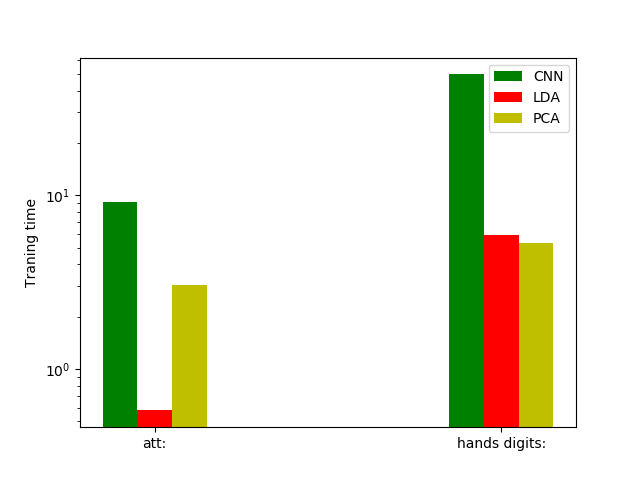
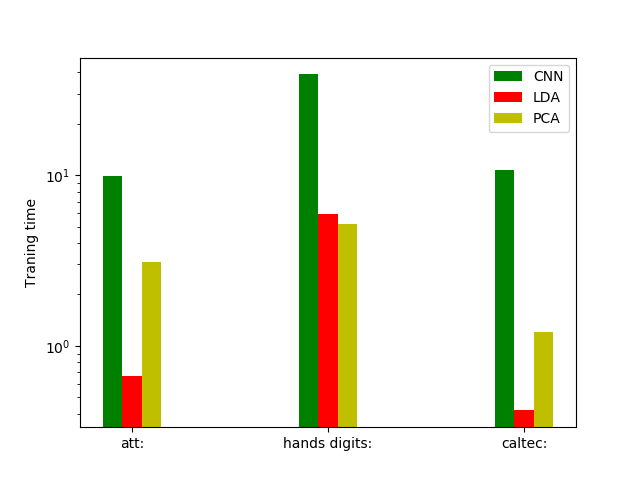
fresh results

diff --git a/src/main.py b/src/main.py
@@ -12,10 +12,10 @@ classifiersDict = {
 }
 
 dataBaseDict = {
-    #'att:': Db("att", 40), #should  work
-    #'hands digits:': Db("hands", 10), # should work
-    #'caltec:': Db("croped_caltec", 19), # should work
-    'essex:': Db("essex", 392) # should work
+    'att:': Db("att", 40), #should  work
+    'hands digits:': Db("hands", 10), # should work
+    'caltec:': Db("croped_caltec", 19), # should work
+    #'essex:': Db("essex", 392), # should work, note: on my 8Gb RAM essex causes MemoryError
     #'georgia': Db("georgia", 50),
 }
 

diff --git a/doc/tables/Svm_fit_time_table.tex b/doc/tables/Svm_fit_time_table.tex
@@ -2,8 +2,10 @@
   \hline
     & CNN & LDA & PCA \\
   \hline
-  att: & 9.11 & 0.58 & 3.03 \\
+  att: & 9.84 & 0.66 & 3.08 \\
   \hline
-  hands digits: & 49.56 & 5.93 & 5.30 \\
+  hands digits: & 38.88 & 5.89 & 5.17 \\
+  \hline
+  caltec: & 10.72 & 0.42 & 1.20 \\
   \hline
 \end{tabular}

diff --git a/doc/tables/Svm_acc_table.tex b/doc/tables/Svm_acc_table.tex
@@ -2,8 +2,10 @@
   \hline
     & CNN & LDA & PCA \\
   \hline
-  att: & 0.98 & 0.95 & 0.51 \\
+  att: & 0.98 & 0.96 & 0.58 \\
   \hline
-  hands digits: & 0.89 & 0.59 & 0.36 \\
+  hands digits: & 0.90 & 0.59 & 0.37 \\
+  \hline
+  caltec: & 0.99 & 0.99 & 0.92 \\
   \hline
 \end{tabular}

diff --git a/doc/tables/Svm_pvalues.tex b/doc/tables/Svm_pvalues.tex
@@ -2,8 +2,8 @@
   \hline
     & values \\
   \hline
-  p-value & 2.789468e-10 \\
+  p-value & 1.299581e-24 \\
   \hline
-  value of statistic F & 44.00 \\
+  value of statistic F & 110.00 \\
   \hline
 \end{tabular}
